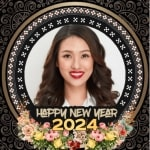
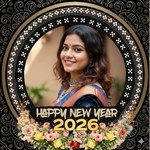
update

diff --git a/manual.html b/manual.html
@@ -39,8 +39,10 @@ div{overflow-x:auto; overflow-y: hidden;}
 </td></tr></table></div>
 
 
-<p> New Year 2024</p><br/><div><table><tr><td>
-<a href="edit/newyear/frame.html"><img src="thumbnail/newyear.jpg"/></a>
+<p> New Year Frames</p><br/><div><table><tr><td>
+<a href="edit/newyear/frame.html"><img src="thumbnail/newyear.jpg"/></a></td><td>
+<a href="edit/newyear/frame.html"><img src="thumbnail/newyear2.jpg"/></a></td><td>
+<a href="edit/newyear/frame.html"><img src="thumbnail/newyear3.jpg"/></a>
 </td></tr></table></div>
 
 <p> Holi-Festival of Colors</p><br/><div><table><tr><td>
